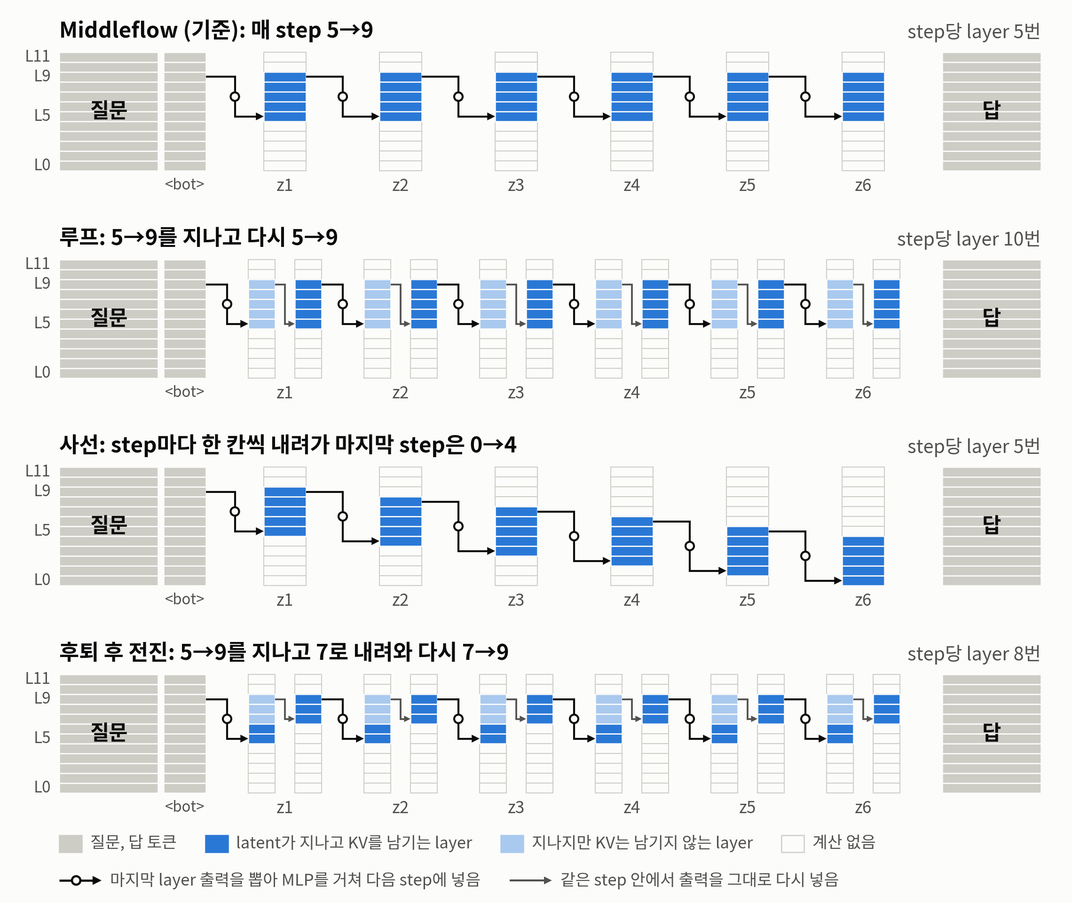
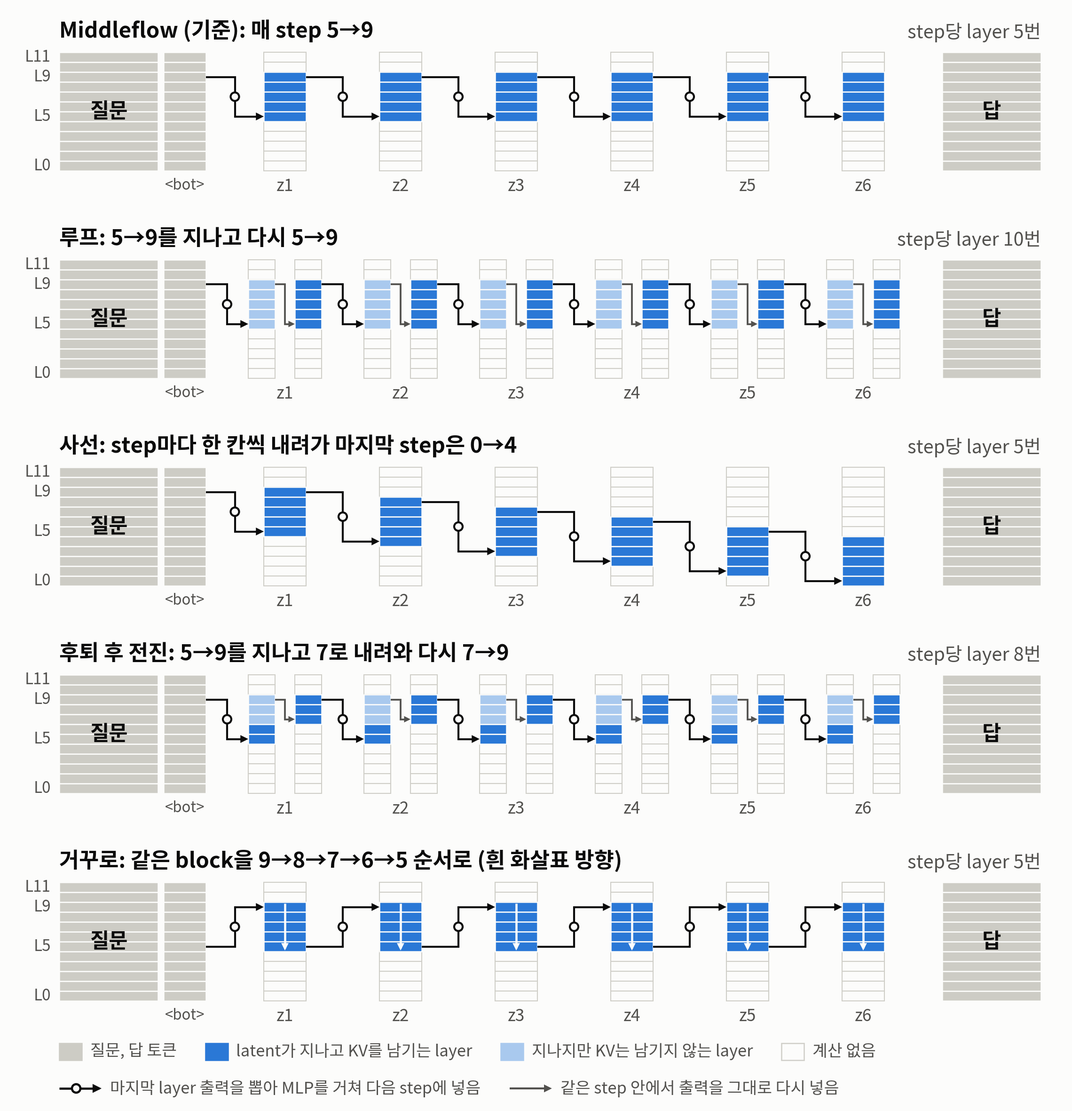
Middleflow: 쓰지 않는 layer의 역할 실험 글(n)과 그림, 경로 변형에 거꾸로 경로 추가와 일정 변경

Changed region(s): [[0.0311, 0.0, 0.9965, 1.0], [0.7474, 0.0625, 0.8408, 0.1875]]

diff --git a/content/experiments/2026-11-24-mf-n-unused-layer-role.md b/content/experiments/2026-11-24-mf-n-unused-layer-role.md
@@ -1,0 +1,122 @@
+---
+title: Middleflow가 latent 계산에 쓰지 않는 layer는 무슨 일을 하나 — CODI에서 그 layer를 빼 보기
+date: 2026-11-24
+project: Middleflow
+status: 진행 중
+summary: Middleflow의 latent는 L7~L13만 지나는데도 CODI와 정확도 차이가 작았습니다. 학습한 CODI에서 추론할 때만 layer를 빼 보니, 답은 latent를 주로 L7~L13에서 읽었고, latent 계산에서도 가운데 layer를 빼면 바깥 layer를 뺄 때보다 두 배 크게 떨어졌습니다. 바깥 layer는 latent를 숫자로 읽히는 모양으로 바꾸고, 질문을 읽고 답을 쓰는 데 쓰였습니다.
+published: true
+---
+
+## 한 줄 요약
+
+Middleflow가 latent 계산에서 뺀 layer(L0~L6, L14~L15)는 CODI에서도 latent에 덜 중요한 쪽이었습니다. CODI의 답은 latent를 주로 L7~L13에서 읽었고, latent 계산에서도 가운데 layer의 몫이 더 컸습니다. 바깥 layer는 latent보다 질문을 읽고 답을 쓰는 일에 쓰였습니다.
+
+## 왜 궁금했나
+
+Middleflow는 latent 한 step의 계산을 Llama-3.2-1B의 16개 layer 중 L7~L13의 7개로 줄였습니다. 그런데도 GSM8K 정확도는 CODI보다 2.96점만 낮았습니다(50.42, 53.37). 뺀 layer가 무슨 일을 하길래 빼도 이 정도가 나오는지 확인했습니다.
+
+Middleflow를 설계할 때의 가설은 이렇습니다. 앞쪽 layer는 토큰을 의미 표현으로 바꾸는 "읽기"를, 뒤쪽 layer는 표현을 다음 토큰으로 바꾸는 "쓰기"를 맡고, 생각하는 계산은 가운데에서 일어납니다. latent는 이미 표현이므로 읽기와 쓰기가 필요 없다는 생각입니다. 선행 연구도 학습하지 않은 언어 모델에서 가운데 layer는 빼거나 이웃 layer와 순서를 바꿔도 크게 무너지지 않고, 앞쪽과 마지막 layer가 중요하다고 보고했습니다([Lad 외 2024](https://arxiv.org/abs/2406.19384), [Sun 외 2024](https://arxiv.org/abs/2407.09298)). 이 가설이 latent에도 맞는지 봅니다.
+
+## 용어 풀이
+
+| 용어 | 뜻 | 이 실험에서의 값 |
+|---|---|---|
+| 건너뛰기 | 그 layer를 계산하지 않고 입력을 그대로 다음 layer로 넘김. 그 layer에는 latent의 KV가 남지 않아 답도 거기서 latent를 못 봄 | 예: "앞쪽 건너뜀"은 latent가 L7~L15만 지남 |
+| 답이 latent를 본다 | 답 토큰이 attention으로 그 layer에 남은 latent의 KV를 읽음 | 그대로면 CODI는 L0~L15, Middleflow는 L7~L13 |
+| 가림 | latent 계산은 그대로 두고, 답 토큰의 attention에서 latent 칸만 지움 | "답은 L7~L13에서만 봄"은 바깥 9개 layer에서 가림 |
+| 변화량 | layer 하나를 지나기 전후 표현의 차이 크기를 지나기 전 크기로 나눈 값 | 0에 가까우면 그 layer가 latent를 거의 바꾸지 않음 |
+| logit lens | 가운데 layer의 표현을 마지막 정규화와 출력층에 바로 넣어, 어느 토큰에 가까운지 보는 방법 | 맨 위 토큰이 그 문항 풀이의 중간 계산값과 같으면 "읽힘" |
+| LoRA 끄기 | 학습으로 더한 가중치 변화(LoRA)를 그 layer에서만 0으로 되돌림 | 그 layer는 학습 전 Llama 가중치로 돌아감 |
+
+## 실험 방법
+
+1. 다시 학습하지 않습니다. 10 epoch CODI(latent가 L0~L15를 지남)와 Middleflow(L7~L13) 저장본으로 추론할 때만 바꿉니다. 원래 코드는 고치지 않고, 추론 때 쓰는 하위 클래스만 새로 만들었습니다.
+2. 아무것도 바꾸지 않으면 원래 채점과 네 벤치마크 3,818문항의 답이 모두 같은지 먼저 확인했습니다(CODI, Middleflow 모두 같음). 작은 무작위 모델로 하는 시험 6개도 통과했습니다. 예를 들어 답에서 latent를 모두 가리면, latent 계산 없이 position만 띄운 결과와 같아야 하는데 실제로 같았습니다.
+3. 네 벤치마크(GSM8K, SVAMP, MultiArith, GSM-Hard)와 GSM-Symbolic main, P1을 풀었습니다. GSM-Symbolic은 latent의 몫이 드러났던 묶음입니다([더 어려운 문제 기록](2026-11-24-mf-k-harder-benchmarks.html)). 비교 기준은 같은 GPU에서 잰 "그대로"입니다.
+4. 변화량과 logit lens는 GSM8K 앞 256문항, latent 6개에서 쟀습니다.
+
+[![CODI와 Middleflow 저장본에서 추론 때 바꾼 조건: latent가 지나는 layer와 답이 latent를 보는 layer](../uploads/middleflow/experiments/layer-role-conditions.png)](../uploads/middleflow/experiments/layer-role-conditions.png)
+
+*세로는 Llama-3.2-1B의 layer(아래 L0, 위 L15)입니다. 진한 파랑은 latent를 계산하고 답이 그 layer에서 latent를 보는 칸, 연한 파랑은 계산하지만 답은 보지 못하는 칸, 빈 칸은 건너뛴 칸입니다. "둘 다 건너뜀"은 CODI 가중치로 Middleflow와 같은 경로(L7~L13)만 쓴 것입니다. 그림을 누르면 원본 크기로 열립니다.*
+
+## 실험 예시
+
+GSM8K 1번 문항입니다.
+
+> Janet’s ducks lay 16 eggs per day. She eats three for breakfast every morning and bakes muffins for her friends every day with four. She sells the remainder at the farmers' market daily for $2 per fresh duck egg. How much in dollars does she make every day at the farmers' market?
+
+풀이의 중간 계산값은 16 − 3 − 4 = **9**, 9 × 2 = **18**입니다. 두 모델의 둘째 latent를 layer마다 logit lens로 읽으면 다음과 같습니다.
+
+| layer | L7 | L8 | L9 | L10 | L11 | L12 | L13 | L14 | L15 |
+|---|---|---|---|---|---|---|---|---|---|
+| CODI | ismatic | plat | ku | pedia | natur | itself | natur | **9** | **9** |
+| Middleflow | aye | aye | -minus | -minus | -minus | -minus | -remove | (지나지 않음) | (지나지 않음) |
+
+CODI에서는 중간값 9가 마지막 두 layer(L14, L15)에서야 읽힙니다. CODI의 넷째 latent도 L14, L15에서 9로 읽혔습니다. Middleflow는 latent가 L13에서 끝나는데, 같은 위치에서 "-minus", "-remove"처럼 빼기를 가리키는 토큰이 읽힙니다. 문항 하나의 예이며, 전체 비율은 아래 결과에 있습니다.
+
+## 결과
+
+**1. 답이 latent를 읽는 layer (CODI 저장본, latent 계산은 그대로).**
+
+| 조건 | GSM8K | SVAMP | MultiArith | GSM-Hard | GSM-Symbolic main | P1 |
+|---|---:|---:|---:|---:|---:|---:|
+| 그대로 | 53.37 | 59.40 | 98.33 | 12.96 | 33.78 | 12.86 |
+| 답은 L7~L13에서만 봄 | **−2.9** | +0.6 | **−6.1** | **−0.8** | **−1.8** | −0.3 |
+| 답은 바깥 layer에서만 봄 | **−21.5** | −2.1 | **−38.9** | **−5.3** | **−17.8** | **−7.4** |
+| 답은 latent를 못 봄 | **−17.2** | **−4.7** | **−59.4** | **−4.1** | **−10.9** | +0.2 |
+
+**2. latent 계산에서 건너뛴 layer (CODI 저장본).**
+
+| 조건 | latent가 지나는 layer 수 | GSM8K | SVAMP | MultiArith | GSM-Hard | GSM-Symbolic main | P1 |
+|---|---:|---:|---:|---:|---:|---:|---:|
+| 앞쪽 L0~L6 건너뜀 | 9 | **−8.7** | +0.8 | **−2.8** | **−2.6** | **−6.9** | **−3.3** |
+| 뒤쪽 L14~L15 건너뜀 | 14 | **−7.0** | −1.1 | **−8.3** | **−2.0** | **−7.7** | **−2.3** |
+| 둘 다 건너뜀 (Middleflow 경로) | 7 | **−11.9** | −1.6 | **−12.8** | **−4.0** | **−10.6** | **−4.9** |
+| 대조: 가운데 L4~L12 건너뜀 | 7 | **−24.3** | −2.3 | **−53.9** | **−6.1** | **−19.3** | **−6.9** |
+| 참고: Middleflow로 학습한 모델 − CODI | 7 | **−3.0** | +0.6 | +0.6 | **−2.0** | **−5.0** | −0.8 |
+
+**3. Middleflow 저장본에서 더 줄이거나 가리기.**
+
+| 조건 | latent가 지나는 layer | GSM8K | SVAMP | MultiArith | GSM-Hard |
+|---|---|---:|---:|---:|---:|
+| 그대로 | L7~L13 | 50.42 | 60.00 | 98.89 | 10.99 |
+| 앞 3개 건너뜀 | L10~L13 | **−3.6** | **−1.4** | −1.1 | −0.2 |
+| 뒤 3개 건너뜀 | L7~L10 | **−5.8** | −1.3 | **−3.9** | **−1.0** |
+| 답은 latent를 못 봄 | L7~L13 | **−4.3** | **−2.6** | **−15.6** | −0.9 |
+
+**4. 학습으로 바뀐 몫(LoRA) 끄기 (GSM8K, 그대로 대비).**
+
+| 끈 layer | CODI | Middleflow |
+|---|---:|---:|
+| 앞쪽 L0~L6 | **−31.6** | **−31.5** |
+| 뒤쪽 L14~L15 | **−37.6** | **−47.5** |
+| 가운데 L7~L13 | **−52.5** | (측정 중) |
+
+[![조건별 정확도 변화, layer마다 latent가 바뀌는 정도, 중간 계산값으로 읽히는 비율](../uploads/middleflow/experiments/layer-role-results.png)](../uploads/middleflow/experiments/layer-role-results.png)
+
+*왼쪽 두 그림은 CODI 저장본에서 추론 때 바꾼 것별 정확도 변화와 95% 구간입니다. 맨 아래 파란 줄은 참고로 Middleflow로 학습한 모델과 CODI의 차이입니다. 가운데 그림은 layer 하나를 지날 때 latent 표현이 바뀌는 정도이고, 점선은 비교용 답 첫 토큰입니다. 오른쪽 그림은 logit lens로 읽은 맨 위 토큰이 그 문항의 중간 계산값과 같은 비율입니다. 옅은 파란 띠는 Middleflow의 latent가 지나는 L7~L13입니다.*
+
+**표 읽는 법.** 표 1~4의 숫자는 같은 GPU에서 잰 "그대로"보다 몇 점 높은지(음수면 낮음)를 같은 문항끼리 짝지어 계산한 값입니다. 굵은 칸은 95% 구간이 0을 포함하지 않아 차이가 있다고 보는 칸입니다. GSM-Symbolic은 같은 문제 틀에서 나온 문항끼리 비슷하므로 문제 틀 단위로 구간을 냈습니다. 표 2의 "참고" 줄만 비교가 다릅니다. 짧은 경로로 처음부터 학습한 Middleflow를 CODI와 비교했습니다.
+
+**layer마다 바뀌는 정도와 읽히는 비율.** CODI의 latent는 앞쪽 L0~L6을 지날 때 0.06~0.30만큼 바뀌고, L7~L15에서는 0.35~0.58만큼 바뀝니다. logit lens로 중간 계산값이 읽히는 비율은 L11까지 1% 이하이다가 L12 6%, L13 10%, L14 16%, L15 18%로 오릅니다. Middleflow의 latent는 L7~L13에서 0.22~0.37만큼 바뀌고, 마지막 L13에서 중간 계산값으로 읽히는 비율은 6%입니다.
+
+## 그래서 무슨 뜻인가
+
+- **CODI의 답도 latent를 주로 가운데 layer에서 읽습니다.** 답이 L7~L13에서만 latent를 보게 해도 GSM8K는 2.9점만 떨어졌습니다. latent를 아예 못 보게 하면 17.2점 떨어지므로, latent 몫의 대부분이 L7~L13에서 읽힙니다. 바깥 layer에서만 보게 하면 아예 안 볼 때보다도 낮았습니다. Middleflow가 latent의 KV를 L7~L13에만 남기는 설계가 CODI의 답이 원래 쓰던 곳과 맞습니다.
+- **latent 계산에서도 가운데 layer의 몫이 더 큽니다.** CODI 가중치로 바깥 9개 layer를 건너뛰면 GSM8K가 11.9점, 같은 수의 가운데 layer를 건너뛰면 24.3점 떨어졌습니다. 앞쪽 layer는 latent를 덜 바꿉니다(변화량 0.06~0.30).
+- **뒤쪽 L14~L15는 latent를 숫자로 읽히는 모양으로 바꿉니다.** 중간 계산값은 CODI에서 주로 L12~L15에서 읽혔습니다(예시 문항의 9). 하지만 답은 latent를 주로 L7~L13에서 읽으므로, 이 layer를 건너뛸 때의 손실(−7.0)은 가운데를 건너뛸 때보다 작았습니다.
+- **남은 차이는 학습이 메웁니다.** CODI 가중치에 Middleflow 경로만 쓰면 GSM8K가 11.9점 떨어지지만, 그 경로로 처음부터 학습한 Middleflow는 CODI보다 3.0점 낮을 뿐이었습니다.
+- **"쓰지 않는 layer"는 latent에 쓰지 않을 뿐, 질문을 읽고 답을 쓰는 데는 꼭 필요합니다.** 그 layer의 LoRA를 끄면 30점 넘게 떨어졌습니다. 질문과 답 토큰은 16개 layer를 모두 지나고, 학습은 그 layer들도 함께 고쳤습니다.
+- **Middleflow의 7개 layer도 모두 쓰입니다.** 추론 때 3개를 더 빼면 3.6~5.8점 떨어졌고, 뒤쪽 3개(L11~L13)를 뺄 때 더 떨어졌습니다.
+
+## 한계와 주의
+
+- 시드 하나, 모델 하나(Llama-3.2-1B)입니다.
+- 추론 때만 바꾼 결과입니다. 예를 들어 CODI 가중치로 짧은 경로를 쓰는 조합은 모델이 학습 때 겪어 보지 못한 입력이라, 그 layer가 하는 일을 정확히 재기보다 대략의 크기로 읽습니다.
+- logit lens는 가운데 layer의 표현을 출력층에 바로 넣는 근사입니다. 읽히지 않는다고 그 정보가 없다는 뜻은 아닙니다.
+- 변화량은 크기만 봅니다. 무엇을 바꾸는지(방향)는 알려 주지 않습니다.
+- LoRA를 끈 결과는 그 layer의 학습된 변화가 필요하다는 뜻이지, 그 layer가 무슨 계산을 하는지까지 보여 주지는 않습니다.
+
+## 일지에서의 이름
+
+`codi_none`, `codi_answer_mid`, `codi_answer_outer`, `codi_answer_none`, `codi_skip_front`, `codi_skip_back`, `codi_skip_both`, `codi_skip_mid9`, `codi_lora_off_front`/`back`/`mid`, `mf_none`, `mf_answer_none`, `mf_skip_first3`, `mf_skip_last3`, `mf_lora_off_front`/`back`/`mid`.

diff --git a/content/experiments/2026-11-24-mf-l-latent-path-plan.md b/content/experiments/2026-11-24-mf-l-latent-path-plan.md
@@ -1,9 +1,9 @@
 ---
-title: latent가 지나는 layer 경로를 step마다 바꾸기 — 루프, 사선, 후퇴 후 전진
+title: latent가 지나는 layer 경로를 step마다 바꾸기 — 루프, 사선, 후퇴 후 전진, 거꾸로
 date: 2026-11-24
 project: Middleflow
 status: 진행 중
-summary: 지금까지의 변형은 모든 latent step에 같은 layer 범위를 썼습니다. 가운데 묶음을 두 번 돌거나(루프), step마다 한 칸씩 내려가 마지막에 첫 layer까지 닿거나(사선), 올라갔다 내려와 다시 올라가는(후퇴 후 전진) 경로를 GPT-2 Small에서 학습해 비교합니다. 코드와 시험을 마쳤고, GPU 한 장에 하나씩 루프는 11월 25일 새벽, 사선은 25일 밤, 후퇴 후 전진은 26일 새벽에 학습을 시작합니다.
+summary: 지금까지의 변형은 모든 latent step에 같은 layer 범위를 썼습니다. 가운데 묶음을 두 번 돌거나(루프), step마다 한 칸씩 내려가 마지막에 첫 layer까지 닿거나(사선), 올라갔다 내려와 다시 올라가는(후퇴 후 전진) 경로, 같은 layer를 위에서 아래로 지나는(거꾸로) 경로를 GPT-2 Small에서 학습해 비교합니다. 코드와 시험을 마쳤고, GPU 한 장에 하나씩 루프는 11월 25일 새벽, 사선과 후퇴 후 전진은 25일 밤, 거꾸로는 26일 낮에 학습을 시작합니다.
 published: true
 ---
 
@@ -30,7 +30,7 @@ latent가 지나는 layer를 step마다 다르게 정하는 세 가지 경로를
 | step당 block 계산 | 한 step에서 지나는 block 수. latent에 드는 계산량의 척도 | CODI 12, Middleflow 5 |
 | KV 캐시 | 토큰이나 latent가 block을 지날 때 그 block에 남기는 값(key, value). 뒤에 오는 토큰은 attention으로 이 값을 다시 봄 | 답을 쓸 때 각 block은 그 block의 KV 캐시에 남은 latent만 봄. block마다 latent 0~6개 |
 
-## 세 가지 경로 (GPT-2 Small, layer 12개, block 0~11)
+## 네 가지 경로 (GPT-2 Small, layer 12개, block 0~11)
 
 | 이름 | latent 한 step의 경로 | step당 block 계산 | 노리는 것 |
 |---|---|---:|---|
@@ -40,12 +40,13 @@ latent가 지나는 layer를 step마다 다르게 정하는 세 가지 경로를
 | **루프** | 5 → 9, 다시 5 → 9 | 10 | 같은 계산량이면 "가운데를 두 번"이 "더 넓게(L9→L0)"보다 나은가 |
 | **사선** | step 1: 5→9, step 2: 4→8, …, step 6: 0→4 | 5 | Middleflow와 같은 계산량으로 마지막에 첫 layer까지 닿으면 latent를 더 쓰고 더 맞히는가 |
 | **후퇴 후 전진** | 5 → 9, 내려와 7 → 9 | 8 | 한 번 올라간 뒤 앞 단계를 다시 거치는 것이 도움이 되는가 |
+| **거꾸로** (11-24 추가) | 9 → 8 → 7 → 6 → 5 | 5 | Middleflow와 같은 layer를 순서만 뒤집어 지나도 같은 만큼 맞히는가 |
 
-[![latent 경로 변형 세 가지와 기준 Middleflow의 step별 경로](../uploads/middleflow/experiments/latent-paths.png)](../uploads/middleflow/experiments/latent-paths.png)
+[![latent 경로 변형 네 가지와 기준 Middleflow의 step별 경로](../uploads/middleflow/experiments/latent-paths.png)](../uploads/middleflow/experiments/latent-paths.png)
 
-*가로는 position(질문, latent 6개, 답), 세로는 GPT-2 Small의 layer(L0~L11)입니다. 루프와 후퇴 후 전진은 한 latent position에서 layer를 두 번 지나므로 칸을 둘로 나눠 그렸습니다. 연한 파랑은 지나지만 KV를 남기지 않는 칸(같은 step에서 다시 지나기 전), 진한 파랑은 KV를 남기는 칸입니다. 사선은 step마다 범위가 한 칸씩 내려가 z6은 L0~L4를 지납니다. 그림을 누르면 원본 크기로 열립니다.*
+*가로는 position(질문, latent 6개, 답), 세로는 GPT-2 Small의 layer(L0~L11)입니다. 루프와 후퇴 후 전진은 한 latent position에서 layer를 두 번 지나므로 칸을 둘로 나눠 그렸습니다. 연한 파랑은 지나지만 KV를 남기지 않는 칸(같은 step에서 다시 지나기 전), 진한 파랑은 KV를 남기는 칸입니다. 사선은 step마다 범위가 한 칸씩 내려가 z6은 L0~L4를 지납니다. 거꾸로는 Middleflow와 같은 칸을 흰 화살표 방향(위에서 아래)으로 지나고, block 5의 출력을 다음 step의 block 9에 넣습니다. 그림을 누르면 원본 크기로 열립니다.*
 
-**표 읽는 법.** step당 block 계산이 같으면 latent에 드는 계산량이 같습니다. 그래서 루프는 L9→L0과(둘 다 10), 사선은 Middleflow와(둘 다 5) 짝지어 비교합니다. 후퇴 후 전진(8)은 Middleflow와 루프 사이입니다.
+**표 읽는 법.** step당 block 계산이 같으면 latent에 드는 계산량이 같습니다. 그래서 루프는 L9→L0과(둘 다 10), 사선과 거꾸로는 Middleflow와(모두 5) 짝지어 비교합니다. 거꾸로는 Middleflow와 지나는 layer도 같고 순서만 다릅니다. 후퇴 후 전진(8)은 Middleflow와 루프 사이입니다.
 
 - 한 step 안에서 같은 block을 두 번 지나면, 그 block의 KV 캐시에는 마지막으로 지날 때의 값만 남깁니다. 답을 쓸 때 각 block이 step마다 latent 하나만 보도록 하기 위해서입니다. 그래서 루프와 후퇴 후 전진은 Middleflow처럼 block 5~9의 KV 캐시에 latent가 6개씩 남습니다.
 - 답 토큰은 지금처럼 12개 block을 모두 지나고, 각 block에서 그 block의 KV 캐시에 남은 latent만 봅니다.
@@ -79,6 +80,8 @@ latent가 지나는 layer를 step마다 다르게 정하는 세 가지 경로를
 
 **루프와 후퇴 후 전진의 한 step.** 루프는 block 5→6→7→8→9를 지난 뒤 block 9의 출력을 그대로 block 5에 다시 넣어 5→9를 한 번 더 지납니다. 후퇴 후 전진은 5→9를 지난 뒤 block 7로 돌아가 7→8→9를 한 번 더 지납니다. 두 번째로 지날 때도 각 block은 그 block의 KV 캐시에 있는 앞 step들의 latent를 봅니다.
 
+**거꾸로의 한 step.** block 9에 넣어 9→8→7→6→5 순서로 지나고, block 5의 출력을 MLP를 거쳐 다음 step의 block 9에 넣습니다. 첫 step에는 질문 마지막 토큰의 block 5 출력을 넣습니다. block 5~9의 KV 캐시에 latent가 6개씩 남는 것은 Middleflow와 같고, 답 토큰이 latent를 보는 layer도 같습니다. 학습하지 않은 모델에서도 가운데 layer는 빼거나 이웃 layer와 순서를 바꿔도 크게 무너지지 않는다는 보고가 있어([Lad 외 2024](https://arxiv.org/abs/2406.19384), [Sun 외 2024](https://arxiv.org/abs/2407.09298)), 학습까지 하면 순서를 통째로 뒤집어도 latent 계산이 되는지 봅니다.
+
 ## 비교 방법
 
 1. CODI, Latent 없음, Middleflow와 같은 설정(40 epoch, 학습률 3e-3, 시드 11)으로 처음부터 학습합니다.
@@ -92,30 +95,34 @@ latent가 지나는 layer를 step마다 다르게 정하는 세 가지 경로를
 | 사선이 Middleflow보다 높고 CODI와 차이가 확인되지 않음 | 같은 계산량으로 첫 layer까지 닿는 경로가 latent의 이득을 되찾는다 |
 | 루프가 L9→L0보다 높음 | 같은 계산량이면 가운데를 깊게 도는 것이 넓게 지나는 것보다 낫다 |
 | 셋 모두 Middleflow와 차이가 확인되지 않음 | 경로 모양보다 계산량이나 넣는 위치가 중요하다 |
+| 거꾸로가 Middleflow와 차이가 확인되지 않음 | 가운데 layer의 순서는 latent 계산에 중요하지 않다 |
+| 거꾸로가 Middleflow보다 낮음 | 같은 layer라도 아래에서 위로 지나는 순서가 latent 계산에 쓰인다 |
 
 ## 진행 상황 (11월 24일)
 
-**코드와 시험.** latent가 step마다 정해진 block 순서를 지나도록 GPT-2 학습 코드에 변형을 더했습니다. 원래 코드는 고치지 않았습니다. 작은 무작위 모델로 하는 시험 12개를 모두 통과했습니다.
+**코드와 시험.** latent가 step마다 정해진 block 순서를 지나도록 GPT-2 학습 코드에 변형을 더했습니다. 원래 코드는 고치지 않았습니다. 작은 무작위 모델로 하는 시험 13개를 모두 통과했습니다(거꾸로 경로는 11월 24일 23시에 더함).
 
 - 경로를 연속 구간 하나(예: 5→9)로 주면 기존 Middleflow와 출력과 학습 손실이 정확히 같고, 전체 구간(0→11)은 공식 CODI의 latent 반복과 같습니다.
-- 루프, 사선, 후퇴 후 전진에서 step마다 지나는 block과 block마다 KV 캐시에 남는 latent 수가 위 표와 같습니다.
+- 루프, 사선, 후퇴 후 전진, 거꾸로에서 step마다 지나는 block과 그 순서, block마다 KV 캐시에 남는 latent 수가 위 표와 같습니다.
 - KV 캐시를 쓰지 않고 처음부터 다시 계산한 결과와 답이 같고, 질문 앞을 빈칸으로 채워도 결과가 같으며, 학습 때 기울기가 학습하는 가중치에만 갑니다.
 
-**학습 순서.** GPU 세 장이 지금 학습(CODI, Latent 없음, Middleflow)을 마치는 대로 한 장에 하나씩 이어서 학습합니다. 11월 24일 22시에 순서를 바꿨습니다. Llama에서 학습 시간을 CODI와 같게 맞춘 학습 두 개([학습 시간 맞춤](2026-11-24-mf-m-llama-codi-time.html))를 먼저 하기로 해서, 사선과 후퇴 후 전진이 약 19시간씩 밀렸습니다.
+**학습 순서.** GPU 세 장이 지금 학습(CODI, Latent 없음, Middleflow)을 마치는 대로 한 장에 하나씩 이어서 학습합니다. 11월 24일 22시에 Llama에서 학습 시간을 CODI와 같게 맞춘 학습 두 개([학습 시간 맞춤](2026-11-24-mf-m-llama-codi-time.html))를 먼저 하기로 했고, 23시에 후퇴 후 전진을 루프 다음(같은 GPU)으로 옮겨 보고(11월 26일 15시) 전에 경로 세 가지가 끝나게 했습니다. 그 자리에서 L9→L0을 학습하고, 거꾸로는 후퇴 후 전진 다음에 학습합니다.
 
 | 경로 | 시작 예정 | 끝 예정 | 그다음 |
 |---|---|---|---|
-| 루프 | 11-25 05:25쯤 (GPT-2 Middleflow 다음) | 11-25 20시쯤 | – |
-| 사선 | 11-25 23시쯤 (GPT-2 CODI, Llama Middleflow 학습 시간 맞춤 다음) | 11-26 14시쯤 | L9→L0 |
-| 후퇴 후 전진 | 11-26 01시쯤 (GPT-2 Latent 없음, Llama Latent 없음 학습 시간 맞춤 다음) | 11-26 16시쯤 | – |
+| 루프 | 11-25 05:30쯤 (GPT-2 Middleflow 다음) | 11-25 21시쯤 | 후퇴 후 전진 |
+| 사선 | 11-25 23시쯤 (GPT-2 CODI, Llama Middleflow 학습 시간 맞춤 다음) | 11-26 13:20쯤 | – |
+| 후퇴 후 전진 | 11-25 21시쯤 (루프 다음) | 11-26 11:45쯤 | 거꾸로 |
+| 거꾸로 | 11-26 11:45쯤 (후퇴 후 전진 다음) | 11-27 02:40쯤 | – |
+| (비교) L9→L0 | 11-26 00:40쯤 (GPT-2 Latent 없음, Llama Latent 없음 학습 시간 맞춤 다음) | 11-26 17시쯤 | – |
 
 시작과 끝 예정은 지금 학습들의 step당 시간으로 어림한 값이고, 앞 학습이 끝나면 고칩니다.
 
 ## 한계와 주의
 
-- 가운데 묶음을 반복하는 선행 연구(ETD, 반복 깊이 모델)와 latent 여러 개를 함께 고쳐 가는 선행 연구(PCCoT)가 있습니다. 특히 루프는 이들과 겹칠 수 있어, 원문을 확인한 뒤 새로운 점을 정리합니다. step마다 layer 범위를 바꾸는 사선과 후퇴 후 전진은 지금까지 확인한 latent 추론 논문에는 없었습니다.
+- 가운데 묶음을 반복하는 선행 연구(ETD, 반복 깊이 모델)와 latent 여러 개를 함께 고쳐 가는 선행 연구(PCCoT)가 있습니다. 특히 루프는 이들과 겹칠 수 있어, 원문을 확인한 뒤 새로운 점을 정리합니다. step마다 layer 범위를 바꾸는 사선과 후퇴 후 전진, 순서를 뒤집는 거꾸로는 지금까지 확인한 latent 추론 논문에는 없었습니다.
 - 지금 세 학습의 속도로 어림하면 한 경로에 학습 약 15시간이 걸립니다. 시드는 하나입니다.
 
 ## 일지에서의 이름
 
-`gpt2_path_diagonal_b5to9_b0to4_seed11`(사선), `gpt2_path_loop_b5to9x2_seed11`(루프), `gpt2_path_retreat_b5to9_b7to9_seed11`(후퇴 후 전진), `gpt2_r10_w0_seed11`(L9→L0).
+`gpt2_path_diagonal_b5to9_b0to4_seed11`(사선), `gpt2_path_loop_b5to9x2_seed11`(루프), `gpt2_path_retreat_b5to9_b7to9_seed11`(후퇴 후 전진), `gpt2_path_reverse_b9to5_seed11`(거꾸로), `gpt2_r10_w0_seed11`(L9→L0).

diff --git a/content/research/middleflow.md b/content/research/middleflow.md
@@ -112,8 +112,9 @@ Middleflow
 - 다음은 생각 계산이 실제로 정확도에 기여하는 것으로 보고된 GPT-2 Small에서 같은 비교를 하는 것입니다. 생각이 필요한 조건에서 Middleflow가 그 기여를 지키면서 비용을 줄이는지가 핵심 질문입니다.
 - 11월 24일: 이름과 숫자를 바꾸고 풀이 단계를 더한 GSM-Symbolic에서는 생각이 있는 모델이 앞섰습니다. CODI가 생각 없는 모델보다 4.8점, 단계를 하나 더한 문제에서 CODI 3.0점, Middleflow 2.0점 높았습니다. 생각을 첫 층에 넣는 모델(L13→L0)은 GSM8K에서는 CODI와 같았지만 GSM-Symbolic에서는 CODI보다 2.5점 낮았습니다([더 어려운 문제 기록](../experiments/2026-11-24-mf-k-harder-benchmarks.html)).
 - GPT-2 Small에서 CODI, 생각 없는 모델, Middleflow를 같은 조건으로 학습하고 있습니다(11월 25일 새벽 끝 예정, [진행 상황](../experiments/2026-11-24-mf-j-gpt2-plan.html)). 공개된 CODI GPT-2는 생각을 비우면 GSM8K가 42.5%에서 22% 안팎으로 떨어져, 이 모델에서는 생각에 크게 기댑니다.
-- 생각이 지나는 층 경로를 단계마다 바꾸는 새 변형 세 가지(가운데 층을 두 번 도는 루프, 단계마다 한 층씩 내려가 첫 층까지 닿는 사선, 올라갔다 내려와 다시 올라가는 후퇴 후 전진)는 코드와 시험을 마쳤습니다. GPU 한 장에 하나씩, 루프는 11월 25일 새벽, 사선은 25일 밤, 후퇴 후 전진은 26일 새벽에 학습을 시작합니다([계획과 진행](../experiments/2026-11-24-mf-l-latent-path-plan.html)).
+- 생각이 지나는 층 경로를 단계마다 바꾸는 새 변형 네 가지(가운데 층을 두 번 도는 루프, 단계마다 한 층씩 내려가 첫 층까지 닿는 사선, 올라갔다 내려와 다시 올라가는 후퇴 후 전진, 같은 층을 위에서 아래로 지나는 거꾸로)는 코드와 시험을 마쳤습니다. GPU 한 장에 하나씩, 루프는 11월 25일 새벽, 사선과 후퇴 후 전진은 25일 밤, 거꾸로는 26일 낮에 학습을 시작합니다([계획과 진행](../experiments/2026-11-24-mf-l-latent-path-plan.html)).
 - Middleflow는 10 epoch 학습이 CODI보다 4.1시간 짧았습니다. 그 시간만큼 더 학습하면(12.73 epoch, CODI와 같은 19.1시간) CODI와의 정확도 차이를 메우는지, 같은 방식으로 생각 없는 모델(15.52 epoch)도 학습해 비교합니다. 11월 25일 새벽에 시작해 25일 밤과 26일 새벽에 끝날 예정입니다([학습 시간 맞춤](../experiments/2026-11-24-mf-m-llama-codi-time.html)).
+- Middleflow가 생각 계산에서 뺀 층(L0~L6, L14~L15)의 역할을 학습한 CODI로 확인했습니다. CODI의 답도 생각을 주로 가운데 층(L7~L13)에서 읽었고(가운데에서만 보게 해도 GSM8K −2.9점, 아예 못 보게 하면 −17.2점), 생각 계산에서도 가운데 층을 빼면 바깥 층을 뺄 때보다 두 배 크게 떨어졌습니다. 바깥 층은 생각을 숫자로 읽히는 모양으로 바꾸고 질문을 읽고 답을 쓰는 데 쓰였습니다([쓰지 않는 층의 역할](../experiments/2026-11-24-mf-n-unused-layer-role.html)).
 
 ## 아직 모르는 것
 

diff --git a/content/experiments/2026-11-24-mf-j-gpt2-plan.md b/content/experiments/2026-11-24-mf-j-gpt2-plan.md
@@ -104,7 +104,7 @@ GPT-2 CODI는 latent를 비우면 20점, 틀린 내용을 넣으면 30~36점 떨
 
 step당 시간과 끝 예정은 11월 24일 14:55에 3분 동안 잰 값입니다. 세 GPU의 CPU 성능이 서로 달라 위 step당 시간은 학습 시간 비교에 쓰지 않습니다. 학습 시간은 끝난 뒤 한 기계에서 따로 잽니다.
 
-**다음.** 학습이 끝나면 같은 GPU에서 네 벤치마크를 바로 평가하고, 이어서 GSM-Symbolic과 추론 때 latent 바꾸기로 평가합니다. 각 GPU는 지금 학습을 마치는 대로 다음 학습으로 넘어갑니다. CODI 다음은 Llama Middleflow를 CODI와 같은 학습 시간만큼 학습하고([학습 시간 맞춤](2026-11-24-mf-m-llama-codi-time.html)), 그다음 사선과 L9→L0을 학습합니다. Middleflow 다음은 루프입니다. Latent 없음 다음은 Llama Latent 없음의 학습 시간 맞춤, 그다음 후퇴 후 전진입니다([경로 변형 계획](2026-11-24-mf-l-latent-path-plan.html)). 순서는 11월 24일 22시에 바꿨습니다.
+**다음.** 학습이 끝나면 같은 GPU에서 네 벤치마크를 바로 평가하고, 이어서 GSM-Symbolic과 추론 때 latent 바꾸기로 평가합니다. 각 GPU는 지금 학습을 마치는 대로 다음 학습으로 넘어갑니다. CODI 다음은 Llama Middleflow를 CODI와 같은 학습 시간만큼 학습하고([학습 시간 맞춤](2026-11-24-mf-m-llama-codi-time.html)), 그다음 사선을 학습합니다. Middleflow 다음은 루프, 후퇴 후 전진, 거꾸로입니다. Latent 없음 다음은 Llama Latent 없음의 학습 시간 맞춤, 그다음 L9→L0입니다([경로 변형 계획](2026-11-24-mf-l-latent-path-plan.html)). 순서는 11월 24일 22시와 23시에 바꿨습니다.
 
 ## 한계와 주의
 

diff --git a/content/experiments/2026-11-24-mf-m-llama-codi-time.md b/content/experiments/2026-11-24-mf-m-llama-codi-time.md
@@ -103,9 +103,9 @@ Middleflow는 CODI보다 GSM8K에서 2.96점([−5.09, −0.82]), GSM-Hard에서
 | GPU | 지금 하는 일 | 시작 예정 | 끝 예정 | 그다음 |
 |---|---|---|---|---|
 | 1 | GPT-2 CODI 학습 | Middleflow, 11-25 03:40쯤 | 11-25 23시쯤 | GPT-2 사선 경로 |
-| 2 | GPT-2 Latent 없음 학습 | Latent 없음, 11-25 05:50쯤 | 11-26 01시쯤 | GPT-2 후퇴 후 전진 경로 |
+| 2 | GPT-2 Latent 없음 학습 | Latent 없음, 11-25 05:50쯤 | 11-26 01시쯤 | GPT-2 L9→L0 |
 
-끝 예정은 원래 GPU의 step당 시간으로 어림한 값입니다. 학습이 시작되면 실제 속도로 고칩니다. 이 두 학습을 먼저 하면서 GPT-2 [경로 변형](2026-11-24-mf-l-latent-path-plan.html) 중 사선과 후퇴 후 전진은 그 뒤로 밀렸습니다.
+끝 예정은 원래 GPU의 step당 시간으로 어림한 값입니다. 학습이 시작되면 실제 속도로 고칩니다. 이 두 학습을 먼저 하면서 GPT-2 [경로 변형](2026-11-24-mf-l-latent-path-plan.html) 중 사선은 그 뒤로 밀렸고, 후퇴 후 전진은 11월 24일 23시에 루프와 같은 GPU로 옮겨 보고 전에 끝나게 했습니다.
 
 ## 한계와 주의
 
